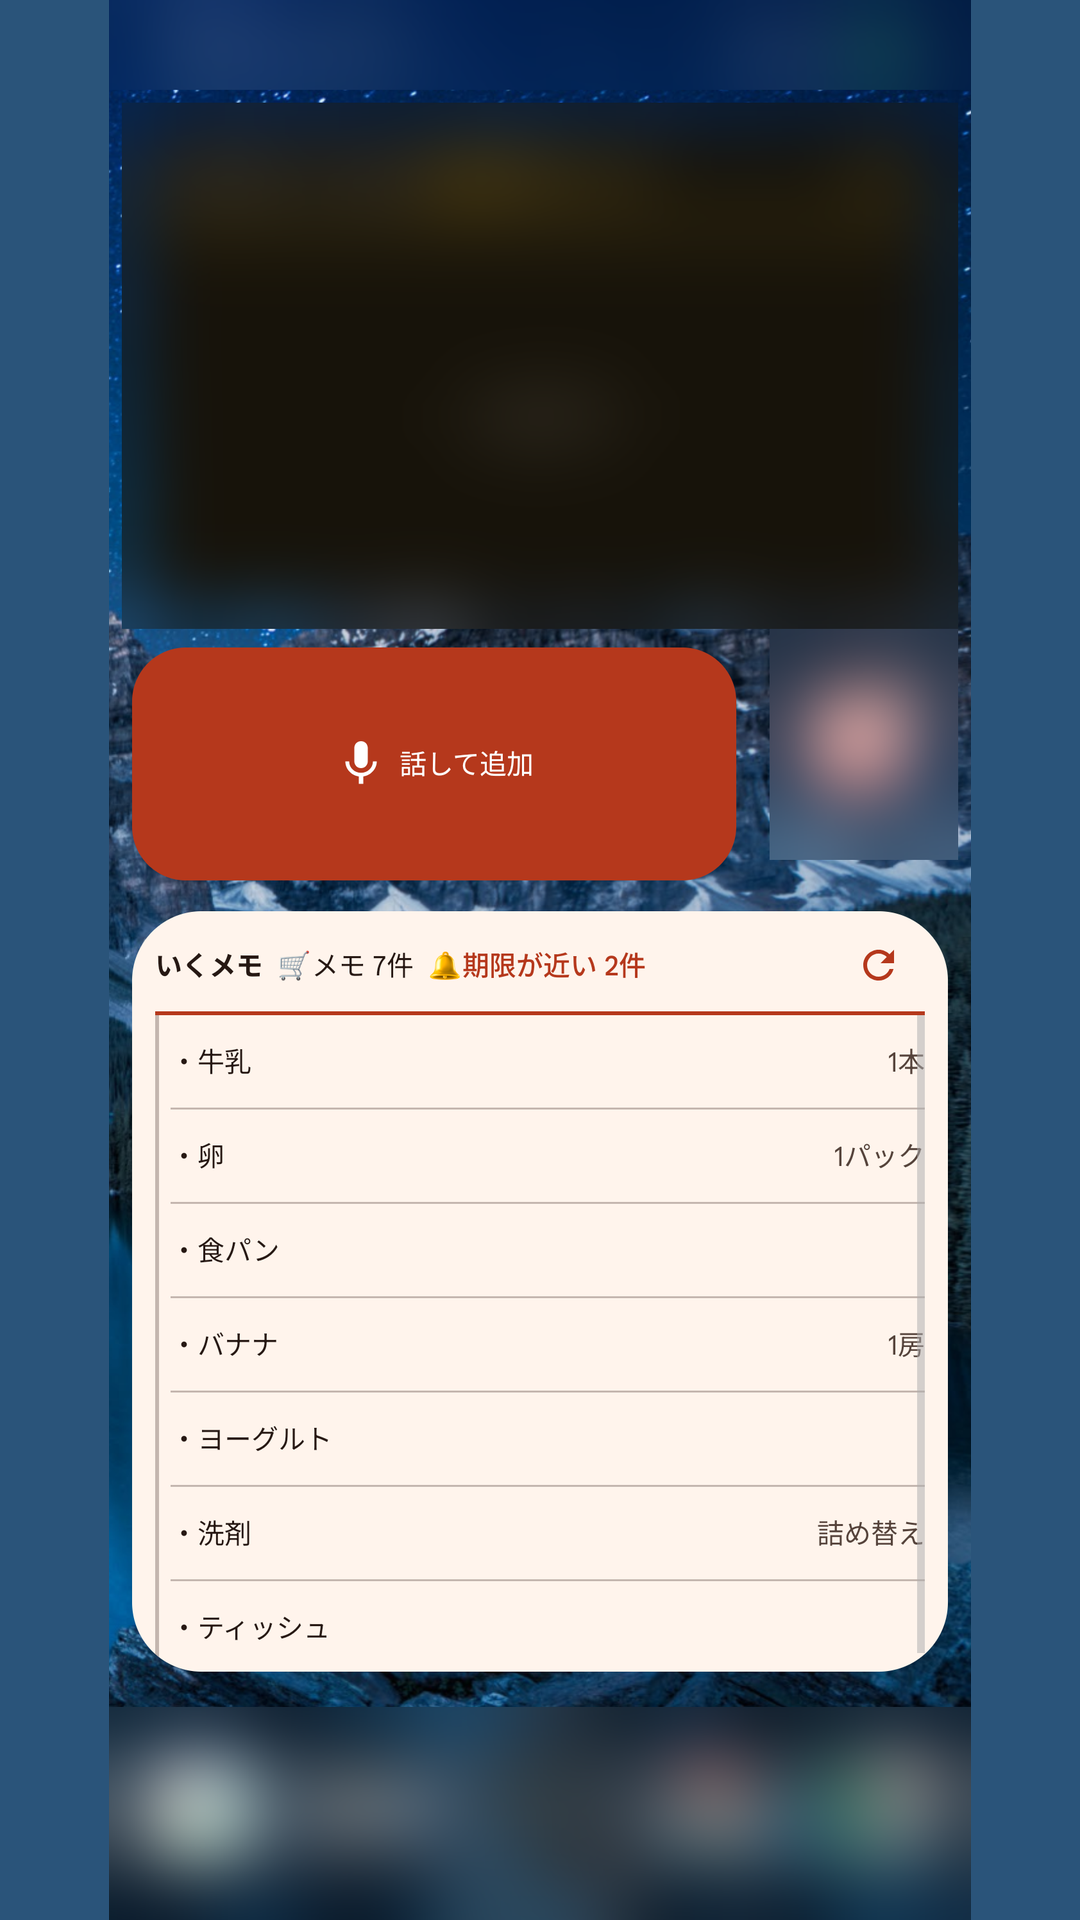
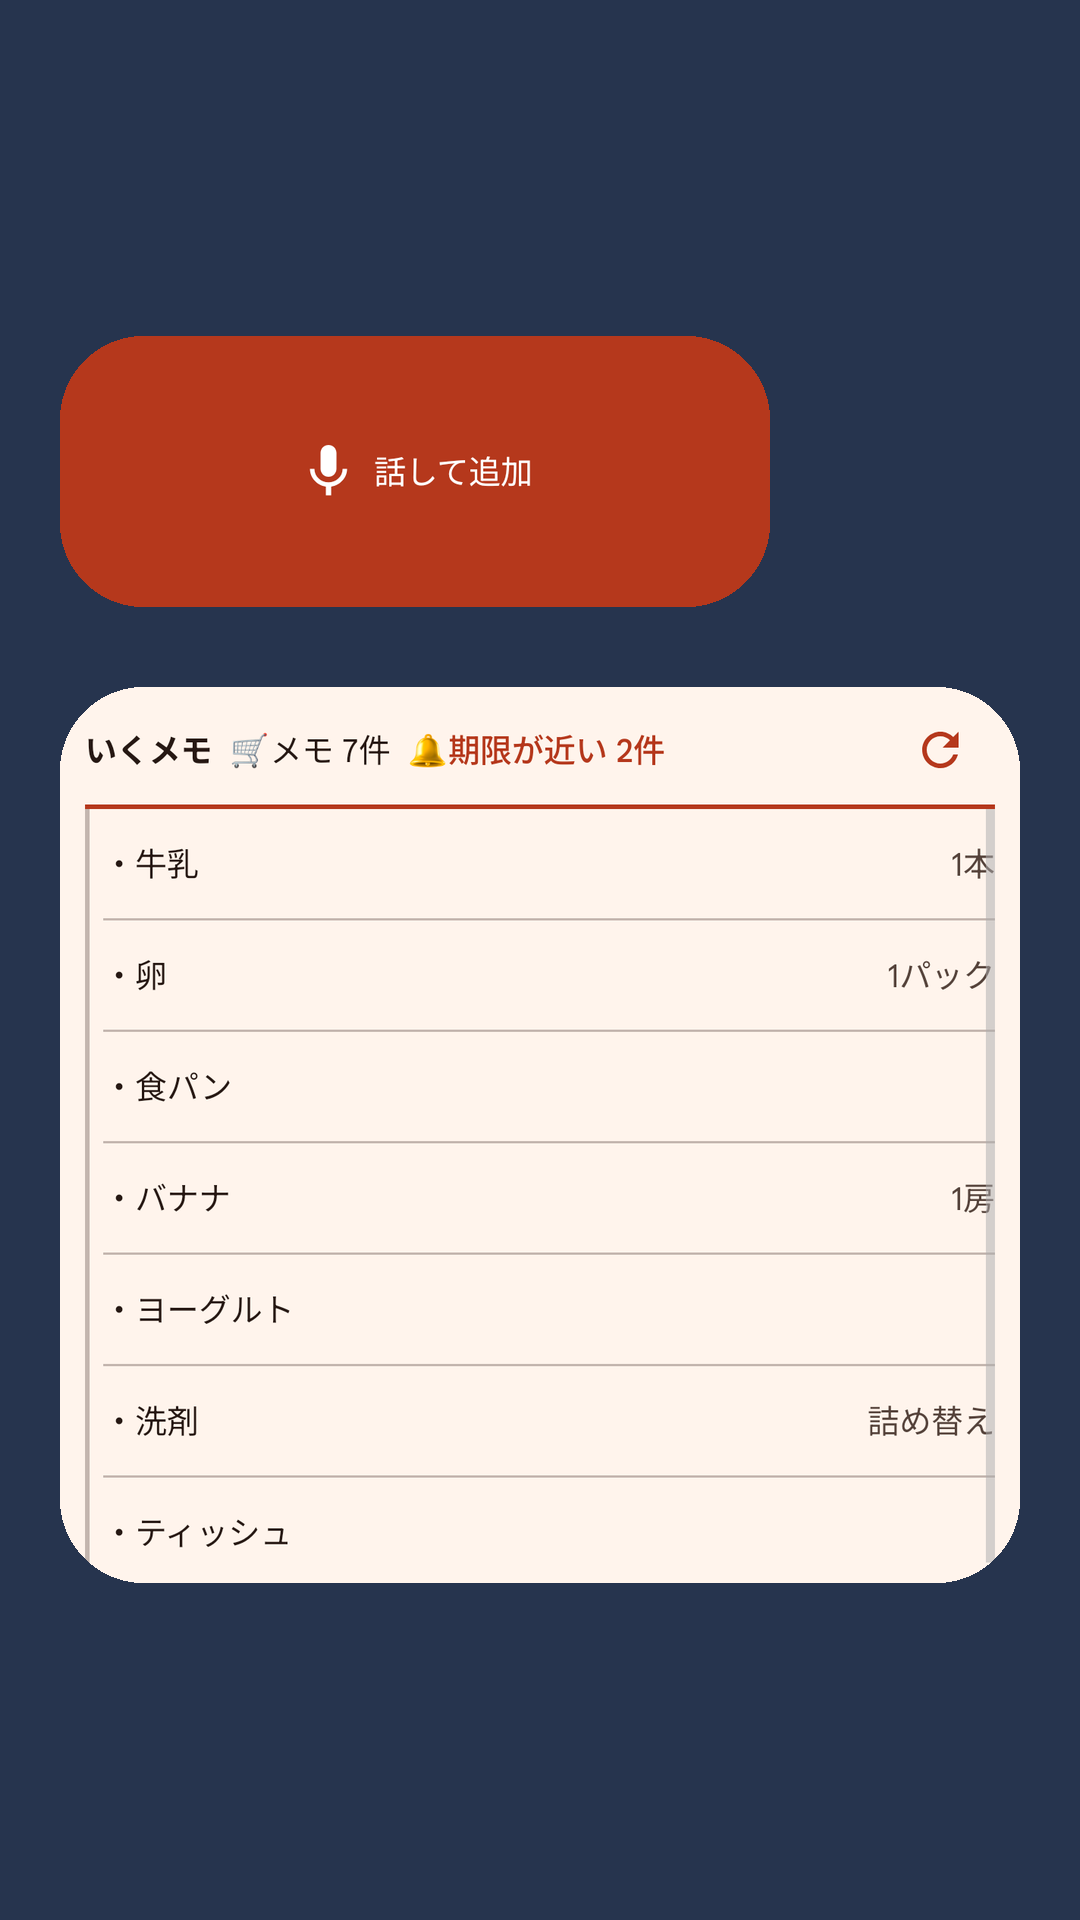
docs: ✂ スクリーンショットのぼかしを切り落としに替える (BL-231)
ステータスバーのぼかしは切り落とし、ウィジェットの 1 枚はぼかした既存の
ウィジェット・アイコン・ドックを入れず、release 版の 2 つのウィジェットだけを
角丸で切り抜いて単色の上に並べた。加工スクリプトに --panel・--radius を足し、
紹介ページ用の画像も作り直した。

対象: BL-231

Claude-Session: https://claude.ai/code/session_01WnqNbZPCmFFnPDifPYizo3

diff --git a/site/index.html b/site/index.html
@@ -54,7 +54,7 @@
         <p class="meta">Android ・ Apache License 2.0 ・ 広告なし ・ アカウント登録なし</p>
         </div>
         <div class="hero-shot">
-          <img class="shot" src="assets/screenshots/swipe.webp" alt="買い物メモの画面。牛乳やたまごなどの品が並び、「買った」へスワイプした行と、下に「話して追加」ボタンがある" width="540" height="960">
+          <img class="shot" src="assets/screenshots/swipe.webp" alt="買い物メモの画面。牛乳やたまごなどの品が並び、「買った」へスワイプした行と、下に「話して追加」ボタンがある" width="540" height="935">
         </div>
       </div>
     </section>
@@ -68,7 +68,7 @@
             <span class="tag">話す</span>
             <h3>話すだけでメモ</h3>
             <p>「牛乳とたまご」と話すと、2つに分かれて入ります。「牛乳 2 本」のように数も入ります。文字でも入れられ、前に入れた物が候補に出ます。</p>
-            <img class="shot" src="assets/screenshots/voice.webp" alt="「牛乳」と「卵」の2つに分かれた話して追加の確認カード" width="540" height="960" loading="lazy">
+            <img class="shot" src="assets/screenshots/voice.webp" alt="「牛乳」と「卵」の2つに分かれた話して追加の確認カード" width="540" height="934" loading="lazy">
           </li>
           <li class="card">
             <span class="tag">スワイプ</span>
@@ -79,7 +79,7 @@
             <span class="tag">記録</span>
             <h3>買った物が日付ごとに残る</h3>
             <p>「記録」のカレンダーで、「牛乳 いつ買った？」も品名で探せます。いつものお店を選べば、どこで買ったかも残ります。</p>
-            <img class="shot" src="assets/screenshots/calendar.webp" alt="買った日に印が付いた記録のカレンダーと、選んだ日に買った物の一覧" width="540" height="960" loading="lazy">
+            <img class="shot" src="assets/screenshots/calendar.webp" alt="買った日に印が付いた記録のカレンダーと、選んだ日に買った物の一覧" width="540" height="935" loading="lazy">
           </li>
           <li class="card">
             <span class="tag">期限</span>
@@ -106,7 +106,7 @@
             <span class="tag">見た目</span>
             <h3>自分好みの見た目</h3>
             <p>4つのテーマ、背景の写真、文字の大きさ、暗い画面を選べます。</p>
-            <img class="shot" src="assets/screenshots/themes.webp" alt="4つのテーマで見た目を変えた買い物メモの画面を2列2段に並べたもの" width="540" height="920" loading="lazy">
+            <img class="shot" src="assets/screenshots/themes.webp" alt="4つのテーマで見た目を変えた買い物メモの画面を2列2段に並べたもの" width="540" height="916" loading="lazy">
           </li>
         </ul>
       </div>

diff --git a/scripts/make-store-screenshots.py b/scripts/make-store-screenshots.py
@@ -1,15 +1,25 @@
 #!/usr/bin/env python3
-"""ストア用スクリーンショットの加工（BL-217）。
+"""ストア用スクリーンショットの加工（BL-217、ぼかしを切り落とす形へ BL-231）。
 
 実機で撮った元画像（ぼかし前。リポジトリへは入れない）に、個人情報が写り込みうる領域のぼかし・塗りつぶしを入れ、
 Play の規格に合わせて 1080x1920（9:16）の PNG にする。実機の画面は約 9:20 で「長辺は短辺の 2 倍まで」を超えるため、
 縦に収まるよう縮小して中央に置き、余白は元画像の地の色に近い単色で埋める。座標は元画像（1344x2992）のピクセル。
 
-使い方（--blur / --fill は何回でも指定できる。--blur はステータスバーなど、--fill は完全に隠したい領域）:
-  1 画面     python scripts/make-store-screenshots.py OUT.png RAW.png --blur 0,0,1344,140
+個人情報が写る領域は、ぼかすより切り落とす方を優先する（ぼかしの箱が目立つため。BL-231）。ステータスバー（上端 140px）は
+--crop 0,140,1344,2992 で切り落とす。--crop は元画像すべてに効き、切り出した範囲が縦長なら 1 画面、横長なら帯として置く。
+
+使い方（--blur / --fill / --panel は何回でも指定できる。--blur・--fill は切り落とせない領域だけに使う）:
+  1 画面     python scripts/make-store-screenshots.py OUT.png RAW.png --crop 0,140,1344,2992
   切り出し   python scripts/make-store-screenshots.py OUT.png RAW.png --crop 40,1330,1304,1650
-             （通知の 1 枚だけを撮りたいときなど。切り出した外は出力に入らない。幅に合わせて拡大して中央に置く）
-  2x2 の並び python scripts/make-store-screenshots.py OUT.png A.png B.png C.png D.png --blur 0,0,1344,140
+             （通知の 1 枚だけを撮りたいときなど。横長の帯は幅に合わせて拡大して中央に置く）
+  2x2 の並び python scripts/make-store-screenshots.py OUT.png A.png B.png C.png D.png --crop 0,140,1344,2992
+  部品だけ   python scripts/make-store-screenshots.py OUT.png RAW.png --panel 39,1011,975,1369 --panel 39,1421,1305,2603
+             --radius 110 --bg 38,52,78
+             （ホーム画面のウィジェットなど。各範囲を角丸で切り抜き、元の左右の位置を保って単色の上に縦に並べる）
+
+2026-11-16 の 6 枚の元画像と指定（元画像は scratchpad にだけ置き、リポジトリへは入れない）:
+  1-voice voice.png / 2-swipe c1.png / 3-calendar d2.png は 1 画面の指定。6-themes は th_pop・th_gentle・th_cool・th_simple の順に
+  2x2 の指定。5-widget は widget.png に上の「部品だけ」の指定。4-notification は通知カードの切り出し。
 
 依存は Pillow。ぼかしは判読できない強さ（半径 40 を 2 回）にする。
 """
@@ -20,12 +30,13 @@ import argparse
 import sys
 from pathlib import Path
 
-from PIL import Image, ImageFilter
+from PIL import Image, ImageDraw, ImageFilter
 
 CANVAS = (1080, 1920)
 BLUR_RADIUS = 40
 GRID_GAP = 40
 CROP_MARGIN = 60
+PANEL_GAP = 80
 
 
 def parse_box(text: str) -> tuple[int, int, int, int]:
@@ -64,6 +75,29 @@ def cropped(img: Image.Image, bg: tuple[int, int, int] | None) -> Image.Image:
     return canvas
 
 
+def panels(img: Image.Image, boxes: list[str], radius: int, bg: tuple[int, int, int] | None) -> Image.Image:
+    # 角丸で切り抜いた部品を、元の左右の位置を保ったまま 1 つの倍率で縮小し、縦に並べて中央に置く
+    rects = [parse_box(text) for text in boxes]
+    left = min(r[0] for r in rects)
+    right = max(r[2] for r in rects)
+    total_h = sum(r[3] - r[1] for r in rects)
+    width = CANVAS[0] - CROP_MARGIN * 2
+    scale = min(width / (right - left), (CANVAS[1] - CROP_MARGIN * 2 - PANEL_GAP * (len(rects) - 1)) / total_h)
+    height = round(total_h * scale) + PANEL_GAP * (len(rects) - 1)
+    canvas = Image.new("RGB", CANVAS, bg or (40, 40, 48))
+    x0 = (CANVAS[0] - round((right - left) * scale)) // 2
+    y = (CANVAS[1] - height) // 2
+    for r in rects:
+        part = img.crop(r)
+        size = (round(part.width * scale), round(part.height * scale))
+        part = part.resize(size, Image.LANCZOS)
+        mask_img = Image.new("L", size, 0)
+        ImageDraw.Draw(mask_img).rounded_rectangle((0, 0, size[0] - 1, size[1] - 1), round(radius * scale), fill=255)
+        canvas.paste(part, (x0 + round((r[0] - left) * scale), y), mask_img)
+        y += size[1] + PANEL_GAP
+    return canvas
+
+
 def grid(images: list[Image.Image], bg: tuple[int, int, int] | None) -> Image.Image:
     # 2 列 x 2 行。高さを 2 行と隙間で割り、幅は縦横比から決める
     panel_h = (CANVAS[1] - GRID_GAP * 3) // 2
@@ -84,15 +118,21 @@ def main() -> int:
     parser.add_argument("raw", type=Path, nargs="+", help="元画像（4 枚なら 2x2 に並べる）")
     parser.add_argument("--blur", action="append", default=[], help="x0,y0,x1,y1 をぼかす")
     parser.add_argument("--fill", action="append", default=[], help="x0,y0,x1,y1 を単色で塗りつぶす")
-    parser.add_argument("--crop", help="x0,y0,x1,y1 だけを残す（ぼかし・塗りつぶしの後に切り出す）")
+    parser.add_argument("--crop", help="x0,y0,x1,y1 だけを残す（ぼかし・塗りつぶしの後に、元画像すべてで切り出す）")
+    parser.add_argument("--panel", action="append", default=[], help="x0,y0,x1,y1 を角丸で切り抜いて並べる")
+    parser.add_argument("--radius", type=int, default=0, help="--panel の角丸の半径（元画像のピクセル）")
     parser.add_argument("--bg", help="余白の色 R,G,B（省略時は画像から取る）")
     args = parser.parse_args()
     bg = tuple(int(v) for v in args.bg.split(",")) if args.bg else None
     images = [mask(Image.open(p), args.blur, args.fill) for p in args.raw]
-    if len(images) == 4:
+    if args.crop:
+        images = [img.crop(parse_box(args.crop)) for img in images]
+    if len(images) == 1 and args.panel:
+        result = panels(images[0], args.panel, args.radius, bg)
+    elif len(images) == 4:
         result = grid(images, bg)
-    elif len(images) == 1 and args.crop:
-        result = cropped(images[0].crop(parse_box(args.crop)), bg)
+    elif len(images) == 1 and images[0].width > images[0].height:
+        result = cropped(images[0], bg)
     elif len(images) == 1:
         result = single(images[0], bg)
     else:

diff --git a/CHANGELOG.md b/CHANGELOG.md
@@ -742,3 +742,13 @@ BL-227 の時点で未撮影だった「話して追加」の確認カード（B
 - `docs/CLOSED_TEST.md`「いくメモとは」に、話して追加・スワイプで買った・記録のカレンダーの 3 枚を表で並べた
 - 画像は紹介ページと同じ `site/assets/screenshots/*.webp`（幅 540px）を相対パスで参照し、ストア用の大きな PNG は使っていない
 
+## 2026-11-16（BL-231 のスクリーンショットのぼかしを切り落としへ）
+
+オーナーの指示（「ぼかしのところをカットできる？そのほうがきれいな気がする」）で、ストア用スクリーンショットのぼかした部分を切り落とす形に作り直しました。BL-231 は起票と完了が同じコミットのため、BACKLOG には残していません。
+
+- 1・2・3・6 枚目はステータスバー（上端 140px）を切り落とし、9:16 の枠へ縮小して置き直した。4 枚目（通知の切り出し）は元からぼかしが無いため変えていない
+- 5 枚目（ウィジェット）は、ぼかした既存ウィジェット・アイコン・ドックと壁紙を入れず、release 版の 2 つのウィジェットだけを角丸で切り抜いて紺の単色の上に並べた
+- `scripts/make-store-screenshots.py` の `--crop` を全元画像へ効くようにし、部品を角丸で切り抜いて並べる `--panel`・`--radius` を足した。
+  6 枚の元画像の名前と指定を説明に残した。切り落とせない領域だけ `--blur`・`--fill` を使う方針にした
+- 紹介ページ用の画像（`site/assets/screenshots/*.webp`）を `scripts/make-site-screenshots.py` で作り直し、`site/index.html` の高さの指定を合わせた
+
